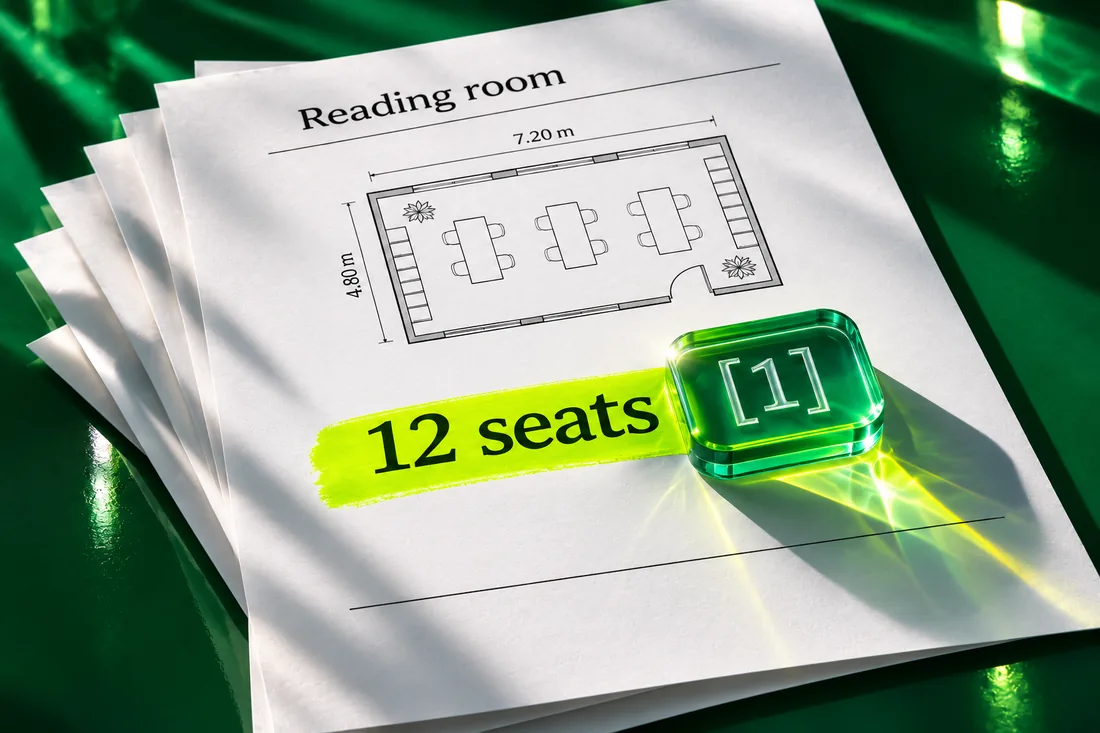
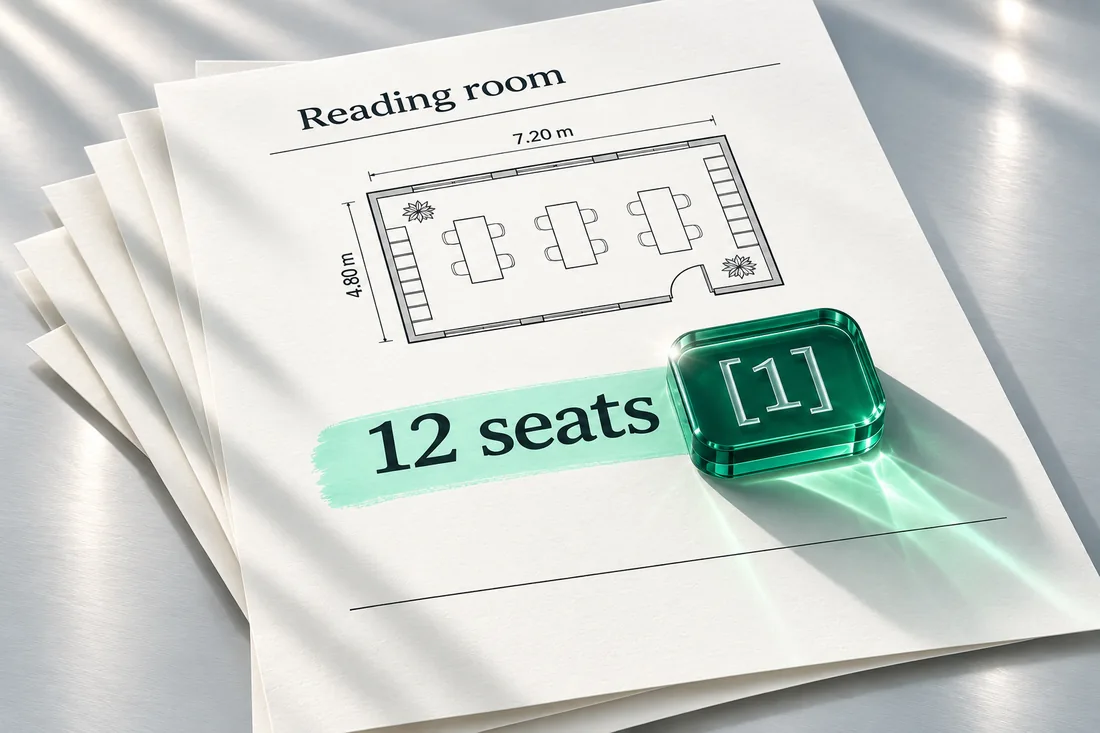
Match document citation artwork to the selected workspace theme

diff --git a/components/ui/optical-plate.tsx b/components/ui/optical-plate.tsx
@@ -18,10 +18,13 @@ export function OpticalPlate({className=''}: {className?: string}) {
           <feDisplacementMap in="SourceGraphic" in2="normal" scale={displacement} xChannelSelector="R" yChannelSelector="G"/>
         </filter>
         <linearGradient id={`${id}-rim`} x2=".8" y2="1">
-          <stop stopColor="#fff"/><stop offset=".32" stopColor="#e1f1ec" stopOpacity=".15"/>
-          <stop offset=".69" stopColor="#354d45" stopOpacity=".62"/><stop offset="1" stopColor="#fff"/>
+          <stop stopColor="var(--platinum)"/><stop offset=".32" stopColor="var(--glacier)" stopOpacity=".15"/>
+          <stop offset=".69" stopColor="var(--optic-ink)" stopOpacity=".62"/><stop offset="1" stopColor="var(--platinum)"/>
         </linearGradient>
-        <image id={`${id}-scene`} href="/optics/folio.webp" width="600" height="400" preserveAspectRatio="xMidYMid slice"/>
+        <g id={`${id}-scene`}>
+          <image href="/optics/folio.webp" width="600" height="400" preserveAspectRatio="xMidYMid slice"/>
+          <image className="optical-night-print" href="/optics/folio-obsidian.webp" width="600" height="400" preserveAspectRatio="xMidYMid slice"/>
+        </g>
       </defs>
       <use href={`#${id}-scene`}/>
       <g className="optical-loupe">

diff --git a/app/material.css b/app/material.css
@@ -38,6 +38,7 @@
   border-radius:18px; box-shadow:var(--glass-depth),var(--glass-lift);
 }
 .optical-plate svg { display:block; height:100%; width:100%; }
+.optical-night-print { display:var(--night-print-display,none); }
 .optical-plate::after {
   content:''; pointer-events:none; position:absolute; inset:0; border-radius:inherit;
   box-shadow:inset 0 0 0 1px var(--rim),inset 0 0 1px 3px rgb(255 255 255 / .12);

diff --git a/app/globals.css b/app/globals.css
@@ -101,6 +101,7 @@
 }
 :root[data-theme=dark] {
   color-scheme: dark;
+  --night-print-display: inline;
   --background: #0a0d0f;
   --foreground: #eff2ee;
   --card: #171b1d;
@@ -125,6 +126,7 @@
 @media (prefers-color-scheme: dark) {
   :root:not([data-theme]) {
     color-scheme: dark;
+    --night-print-display: inline;
     --background: #0a0d0f;
     --foreground: #eff2ee;
     --card: #171b1d;
